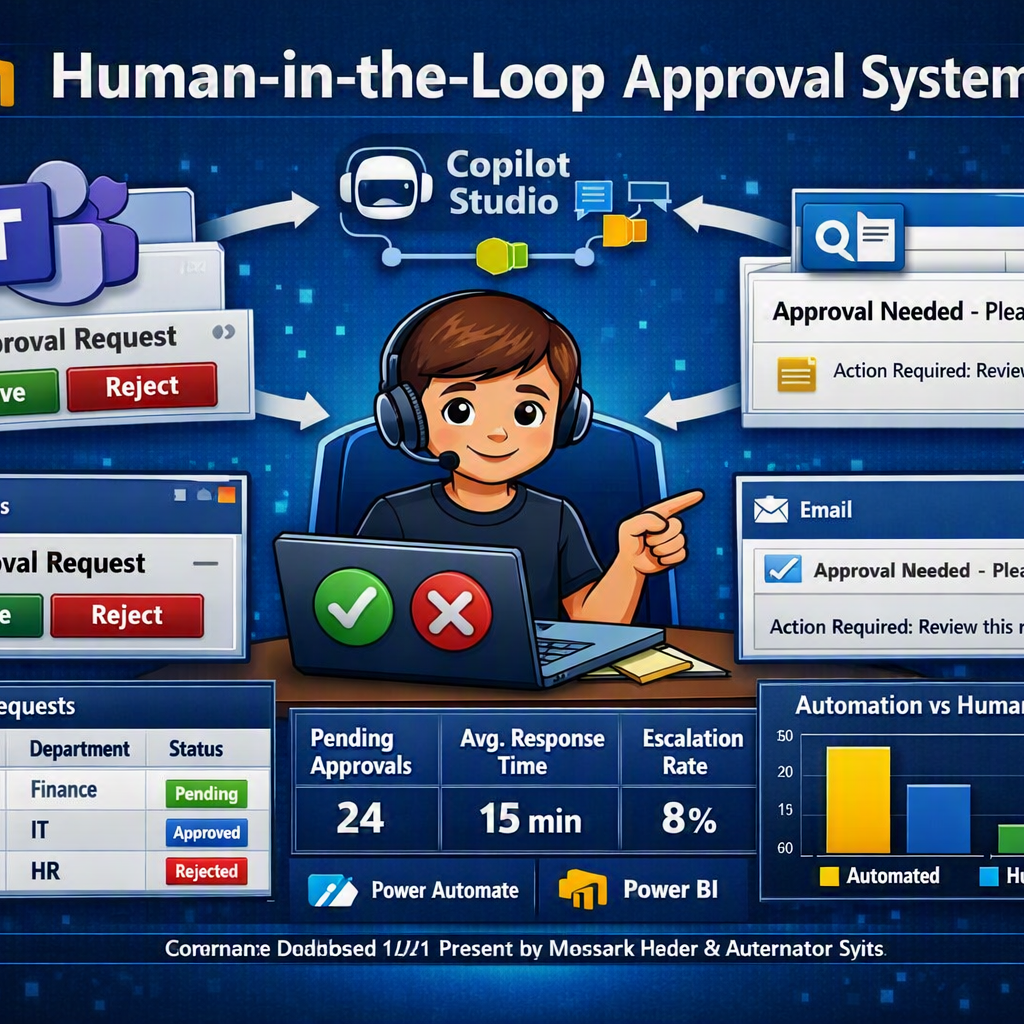
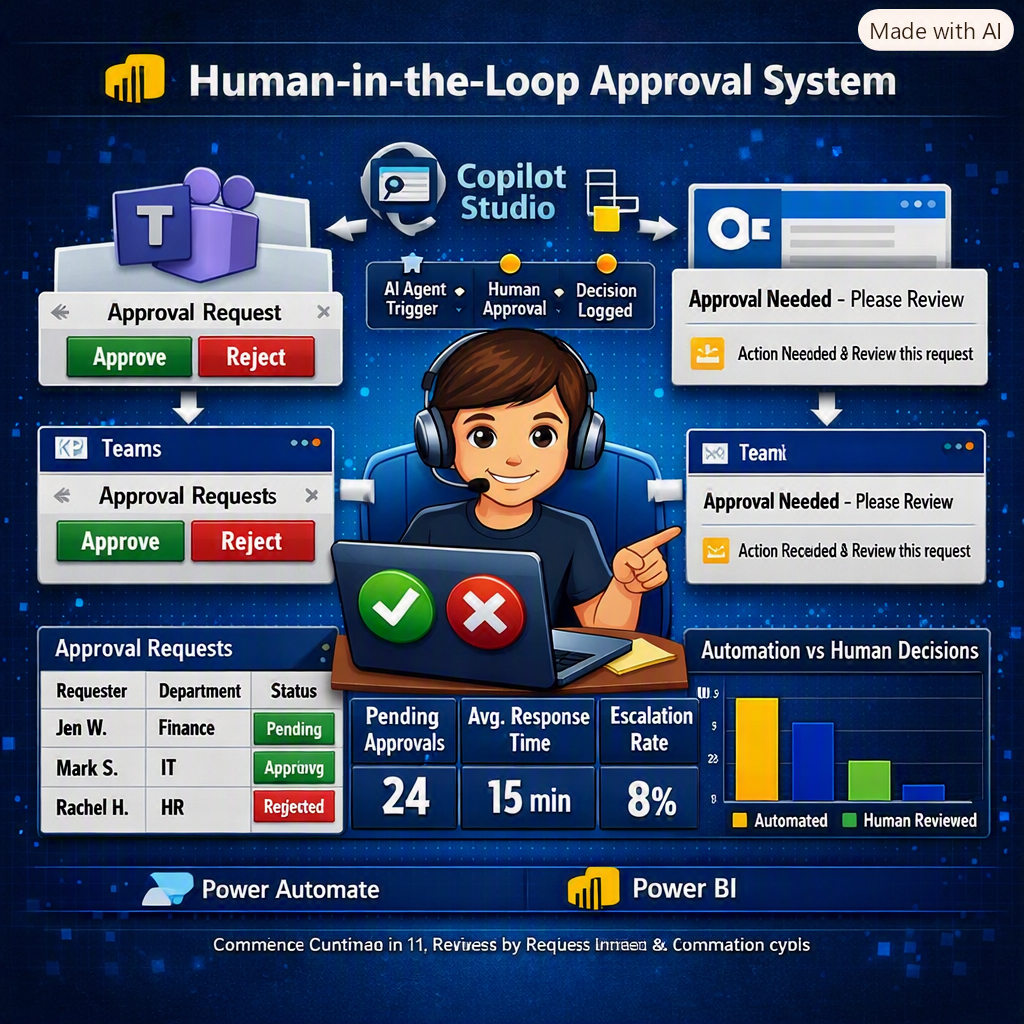
Update title to Intelligent Human-in-the-Loop Approval System and replace thumbnail

diff --git a/src/content/projects/previews/en.ts b/src/content/projects/previews/en.ts
@@ -28,7 +28,7 @@ export default [
     ],
   },
   {
-    title: "Human-in-the-Loop Approval System — Copilot Studio, Teams & Outlook",
+    title: "Intelligent Human-in-the-Loop Approval System",
     slug: "copilot-handoff-portal",
     thumbnail: "https://raw.githubusercontent.com/rupam13/Rupam_resume/main/public/images/thumbnails/copilot-handoff-portal.png",
     description: "Teams + Outlook dual approval | Manager confirmation | SharePoint timestamped storage | Turnaround time tracked at every handoff stage.",

diff --git a/src/content/projects/en/copilot-handoff-portal.ts b/src/content/projects/en/copilot-handoff-portal.ts
@@ -1,7 +1,7 @@
 import type { ProjectContent } from "../../types";
 
 export default {
-  title: "Human-in-the-Loop Approval System — Copilot Studio, Teams & Outlook",
+  title: "Intelligent Human-in-the-Loop Approval System",
   category: "ai",
   theme: "dark",
   tags: ["copilot-studio", "human-in-the-loop", "power-automate", "power-bi"],
